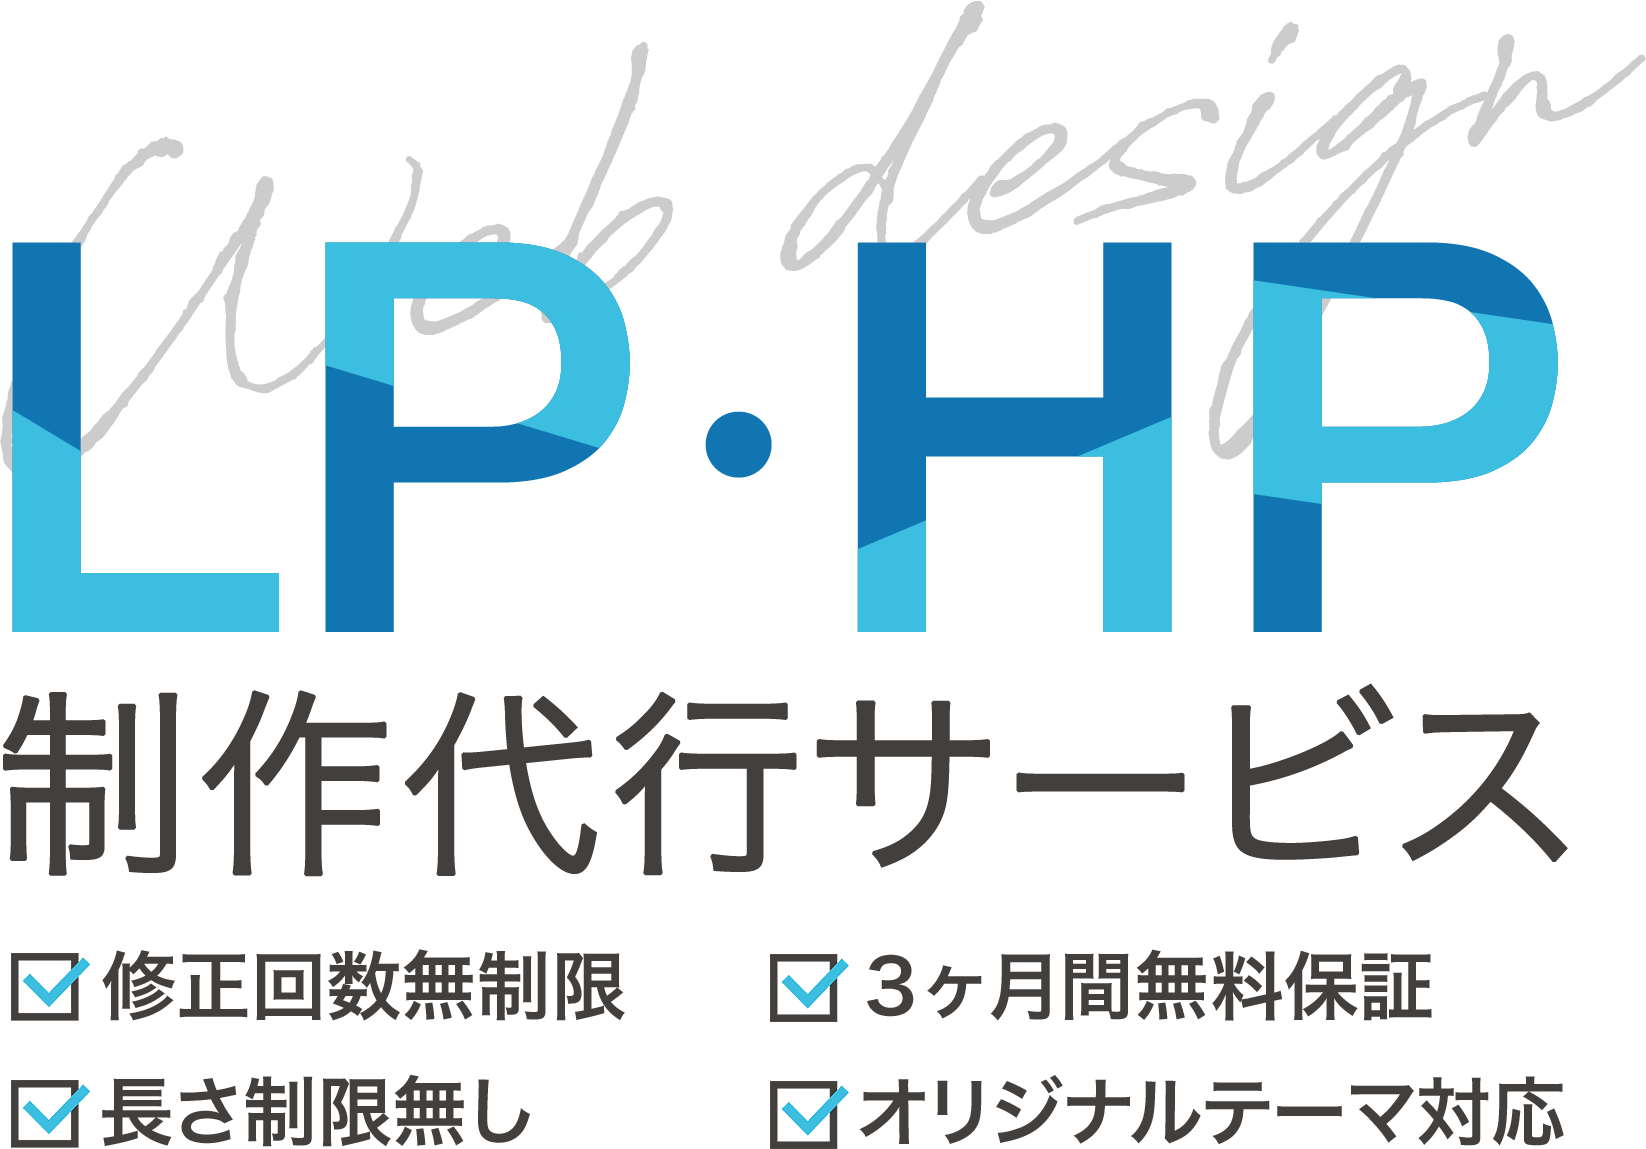
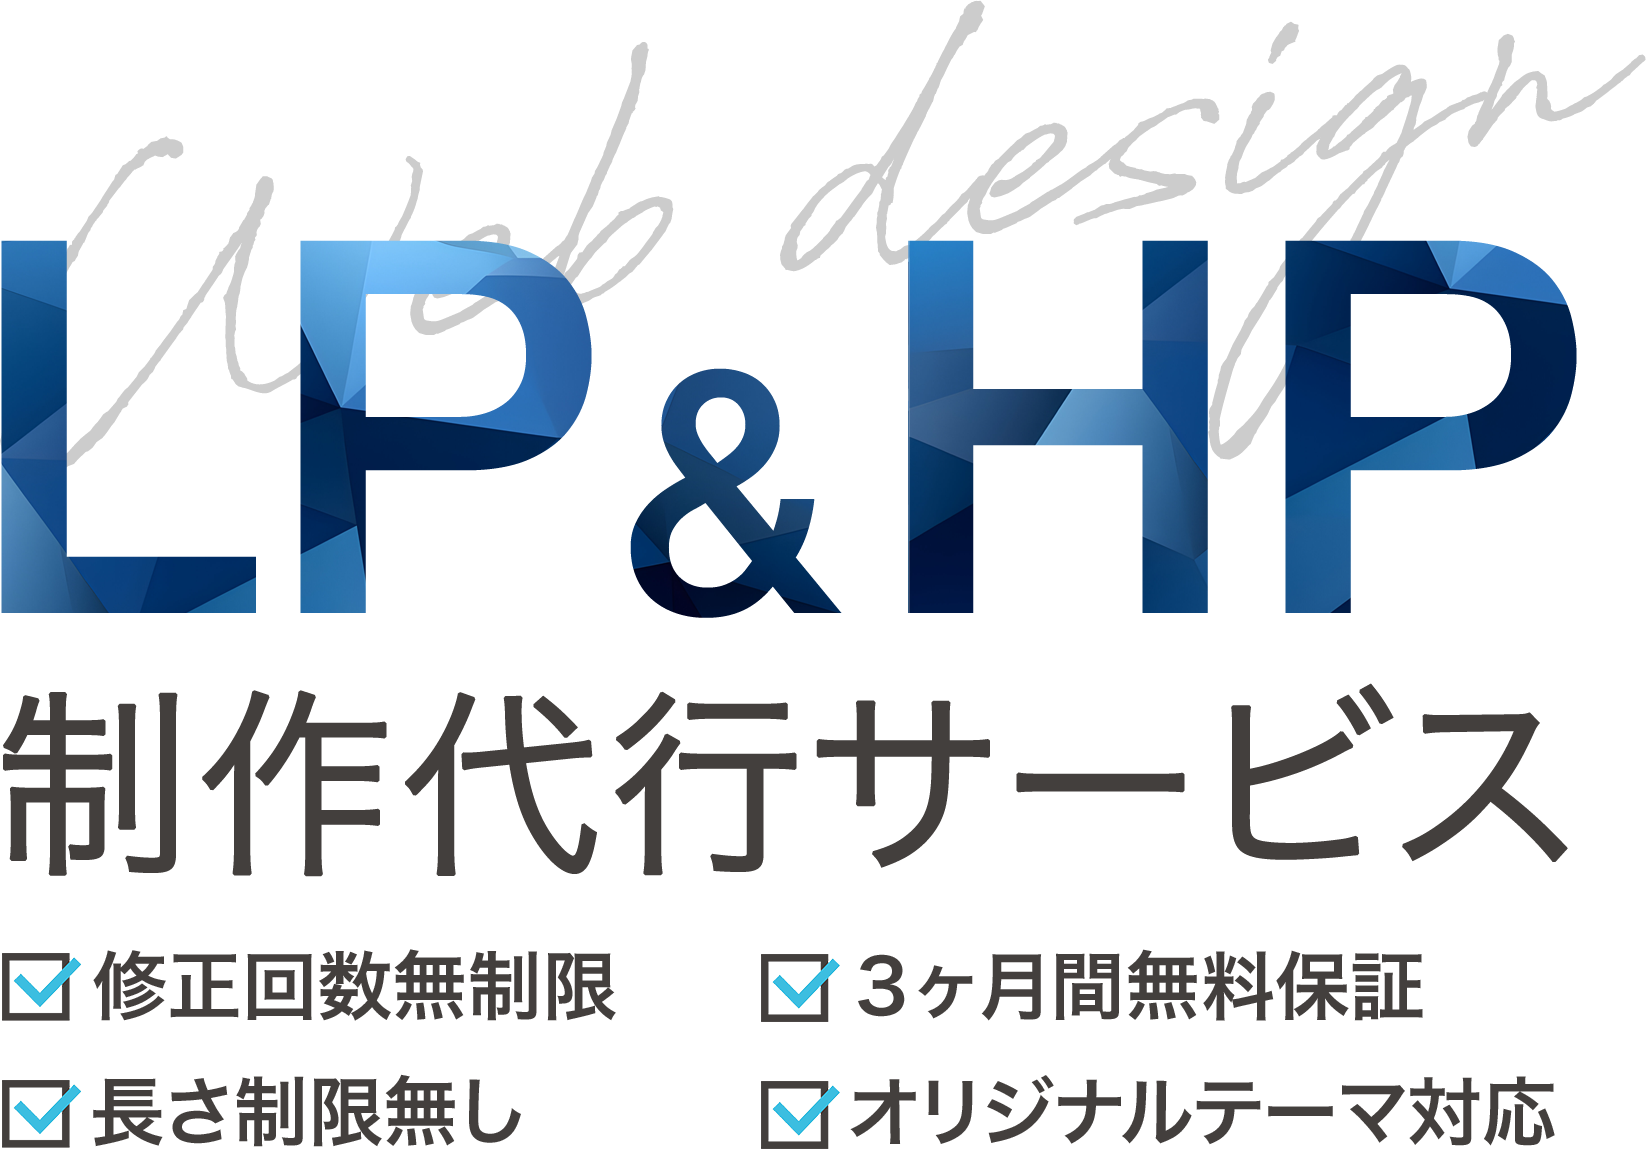
ui: FV見出し画像をLP&HP版に差し替え（サイズ・位置は据え置き／alt更新）

diff --git a/index.html b/index.html
@@ -882,7 +882,7 @@
 
   <div class="relative z-10 w-full px-6 sm:px-10 lg:px-12 py-32">
     <div data-aos="fade-up" data-aos-duration="900">
-      <img src="images/fv-graphic.png" alt="LP・HP制作代行サービス｜修正回数無制限・長さ制限無し・3ヶ月間無料保証・オリジナルテーマ対応" class="fv-graphic" style="width:100%; max-width:696px; height:auto; margin-top:4rem; margin-bottom:1.5rem;" />
+      <img src="images/fv-graphic.png" alt="LP&amp;HP制作代行サービス｜修正回数無制限・長さ制限無し・3ヶ月間無料保証・オリジナルテーマ対応" class="fv-graphic" style="width:100%; max-width:696px; height:auto; margin-top:4rem; margin-bottom:1.5rem;" />
       <div class="fv-btns">
       <a href="#contact" class="btn-primary text-base shadow-lg" style="display:inline-flex; align-items:center; justify-content:center; gap:8px; width:290px;">
         <img src="images/メール.png" alt="" style="height:20px; width:auto;" />
